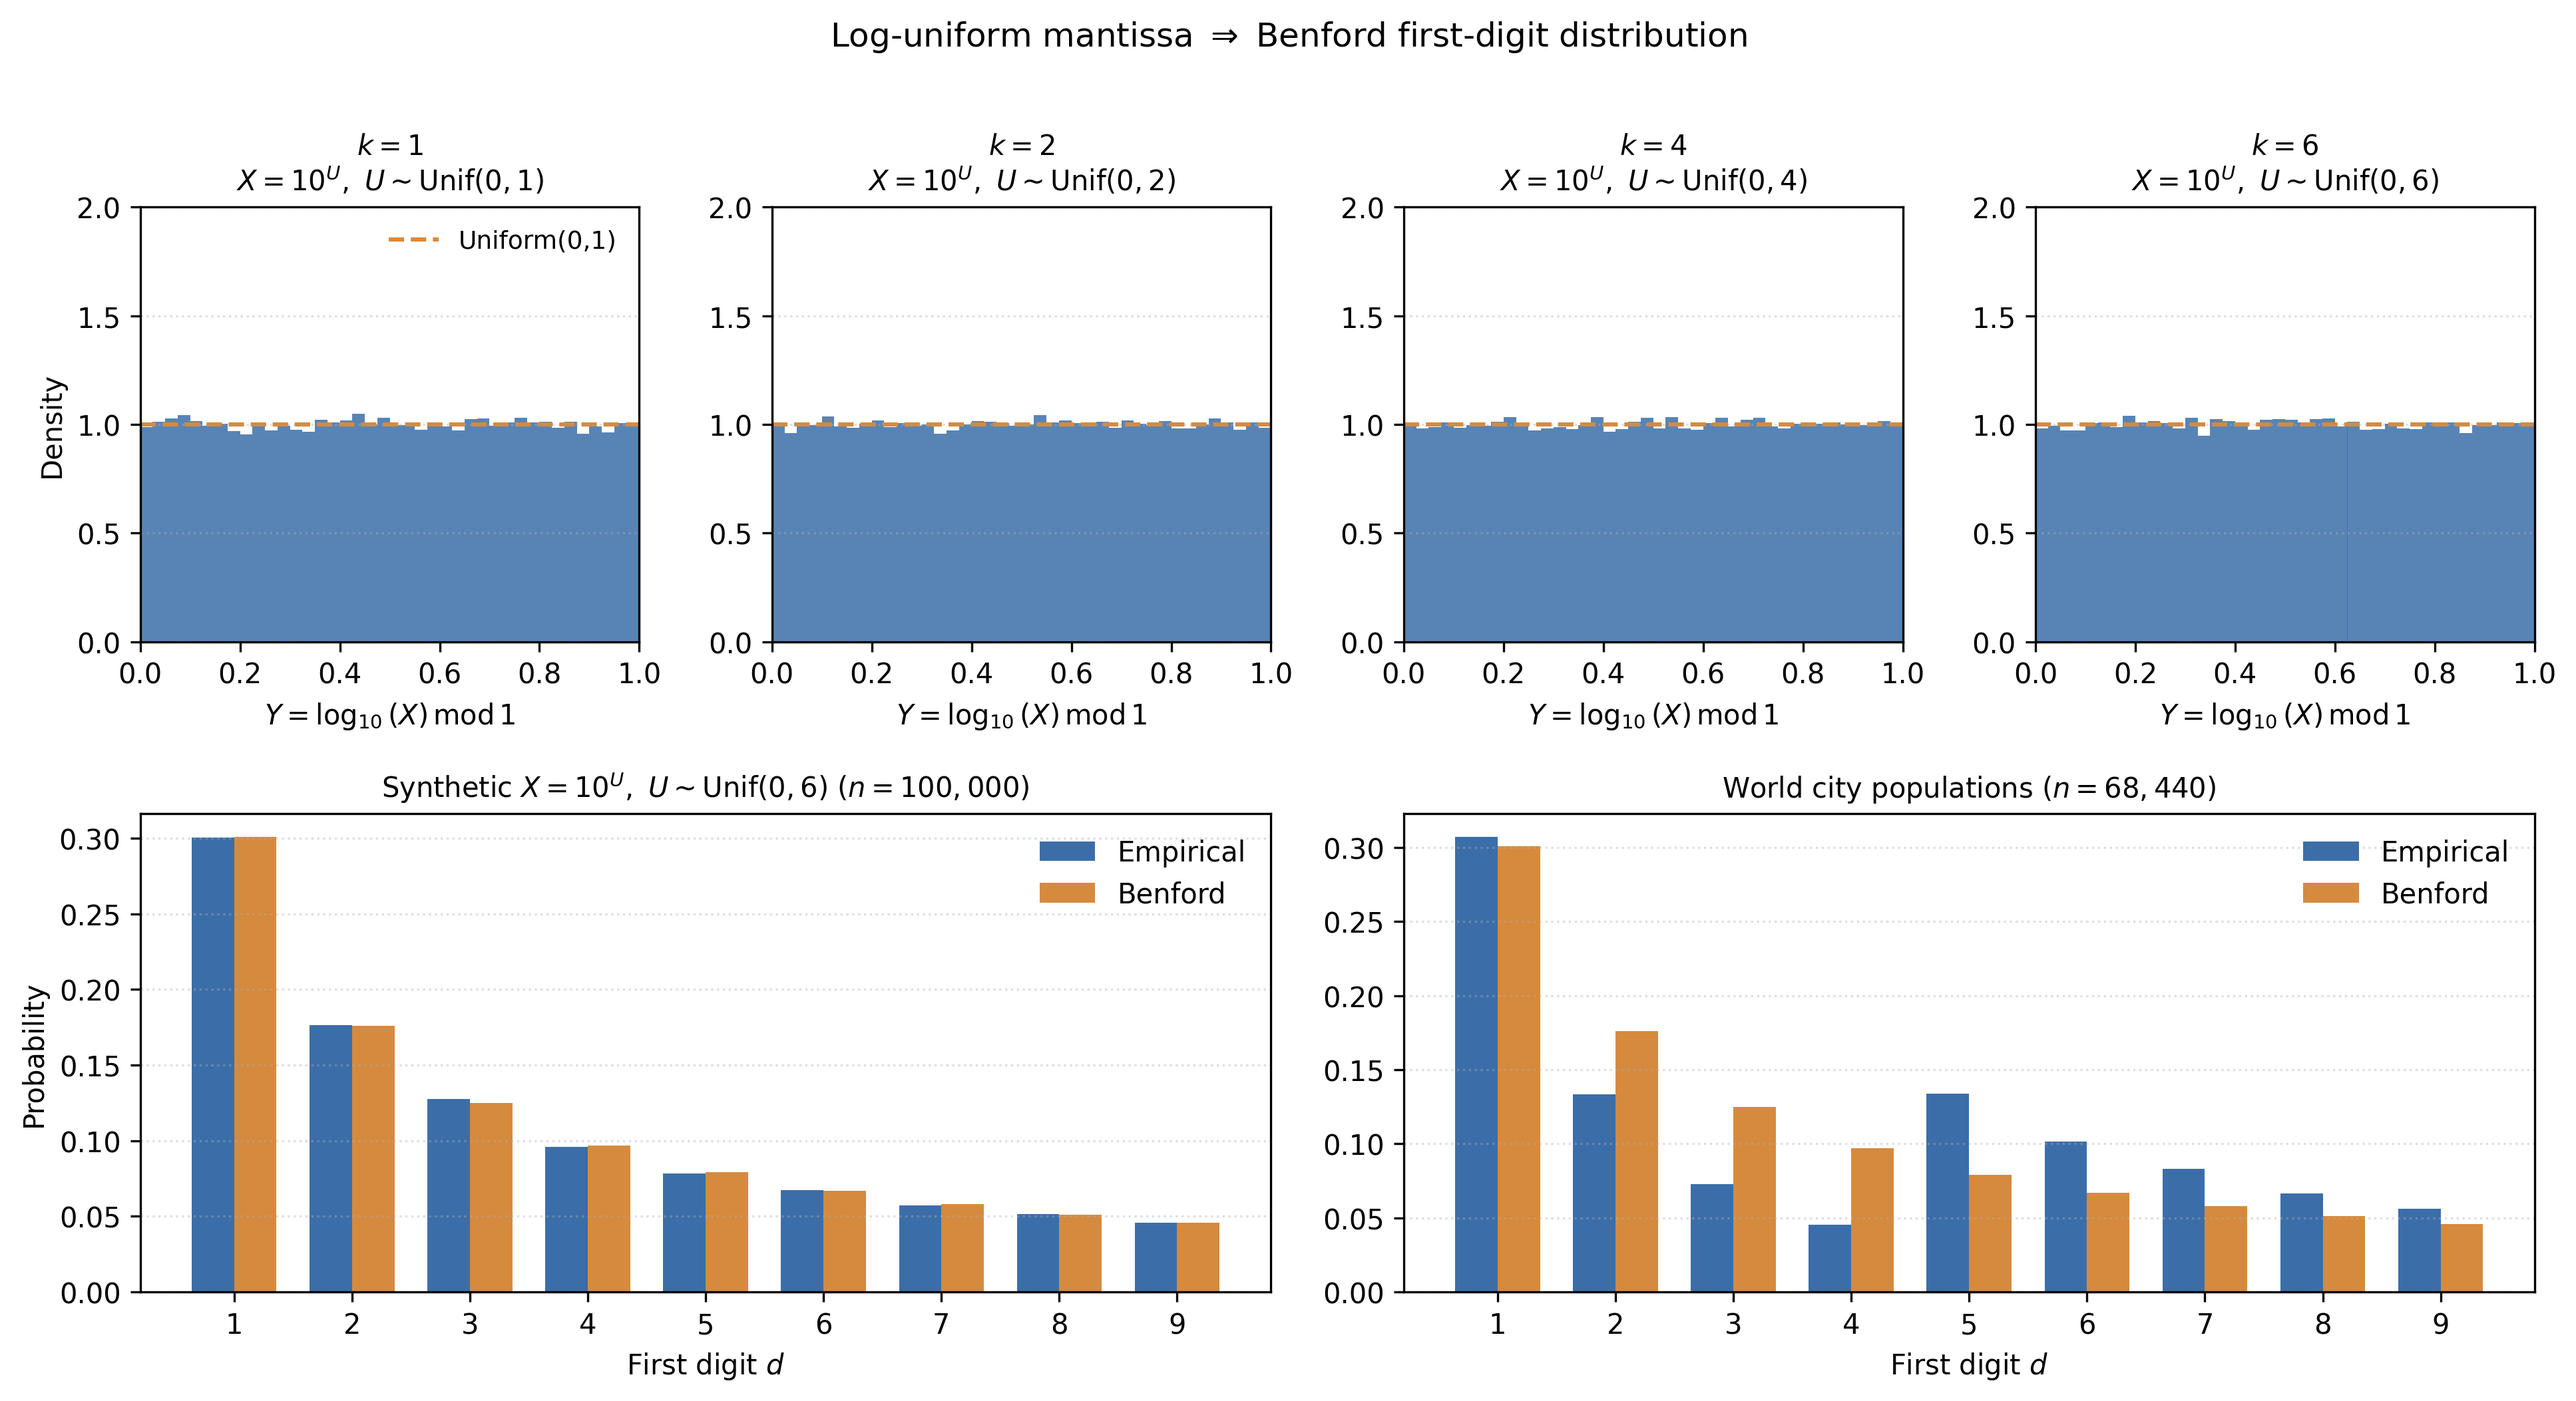
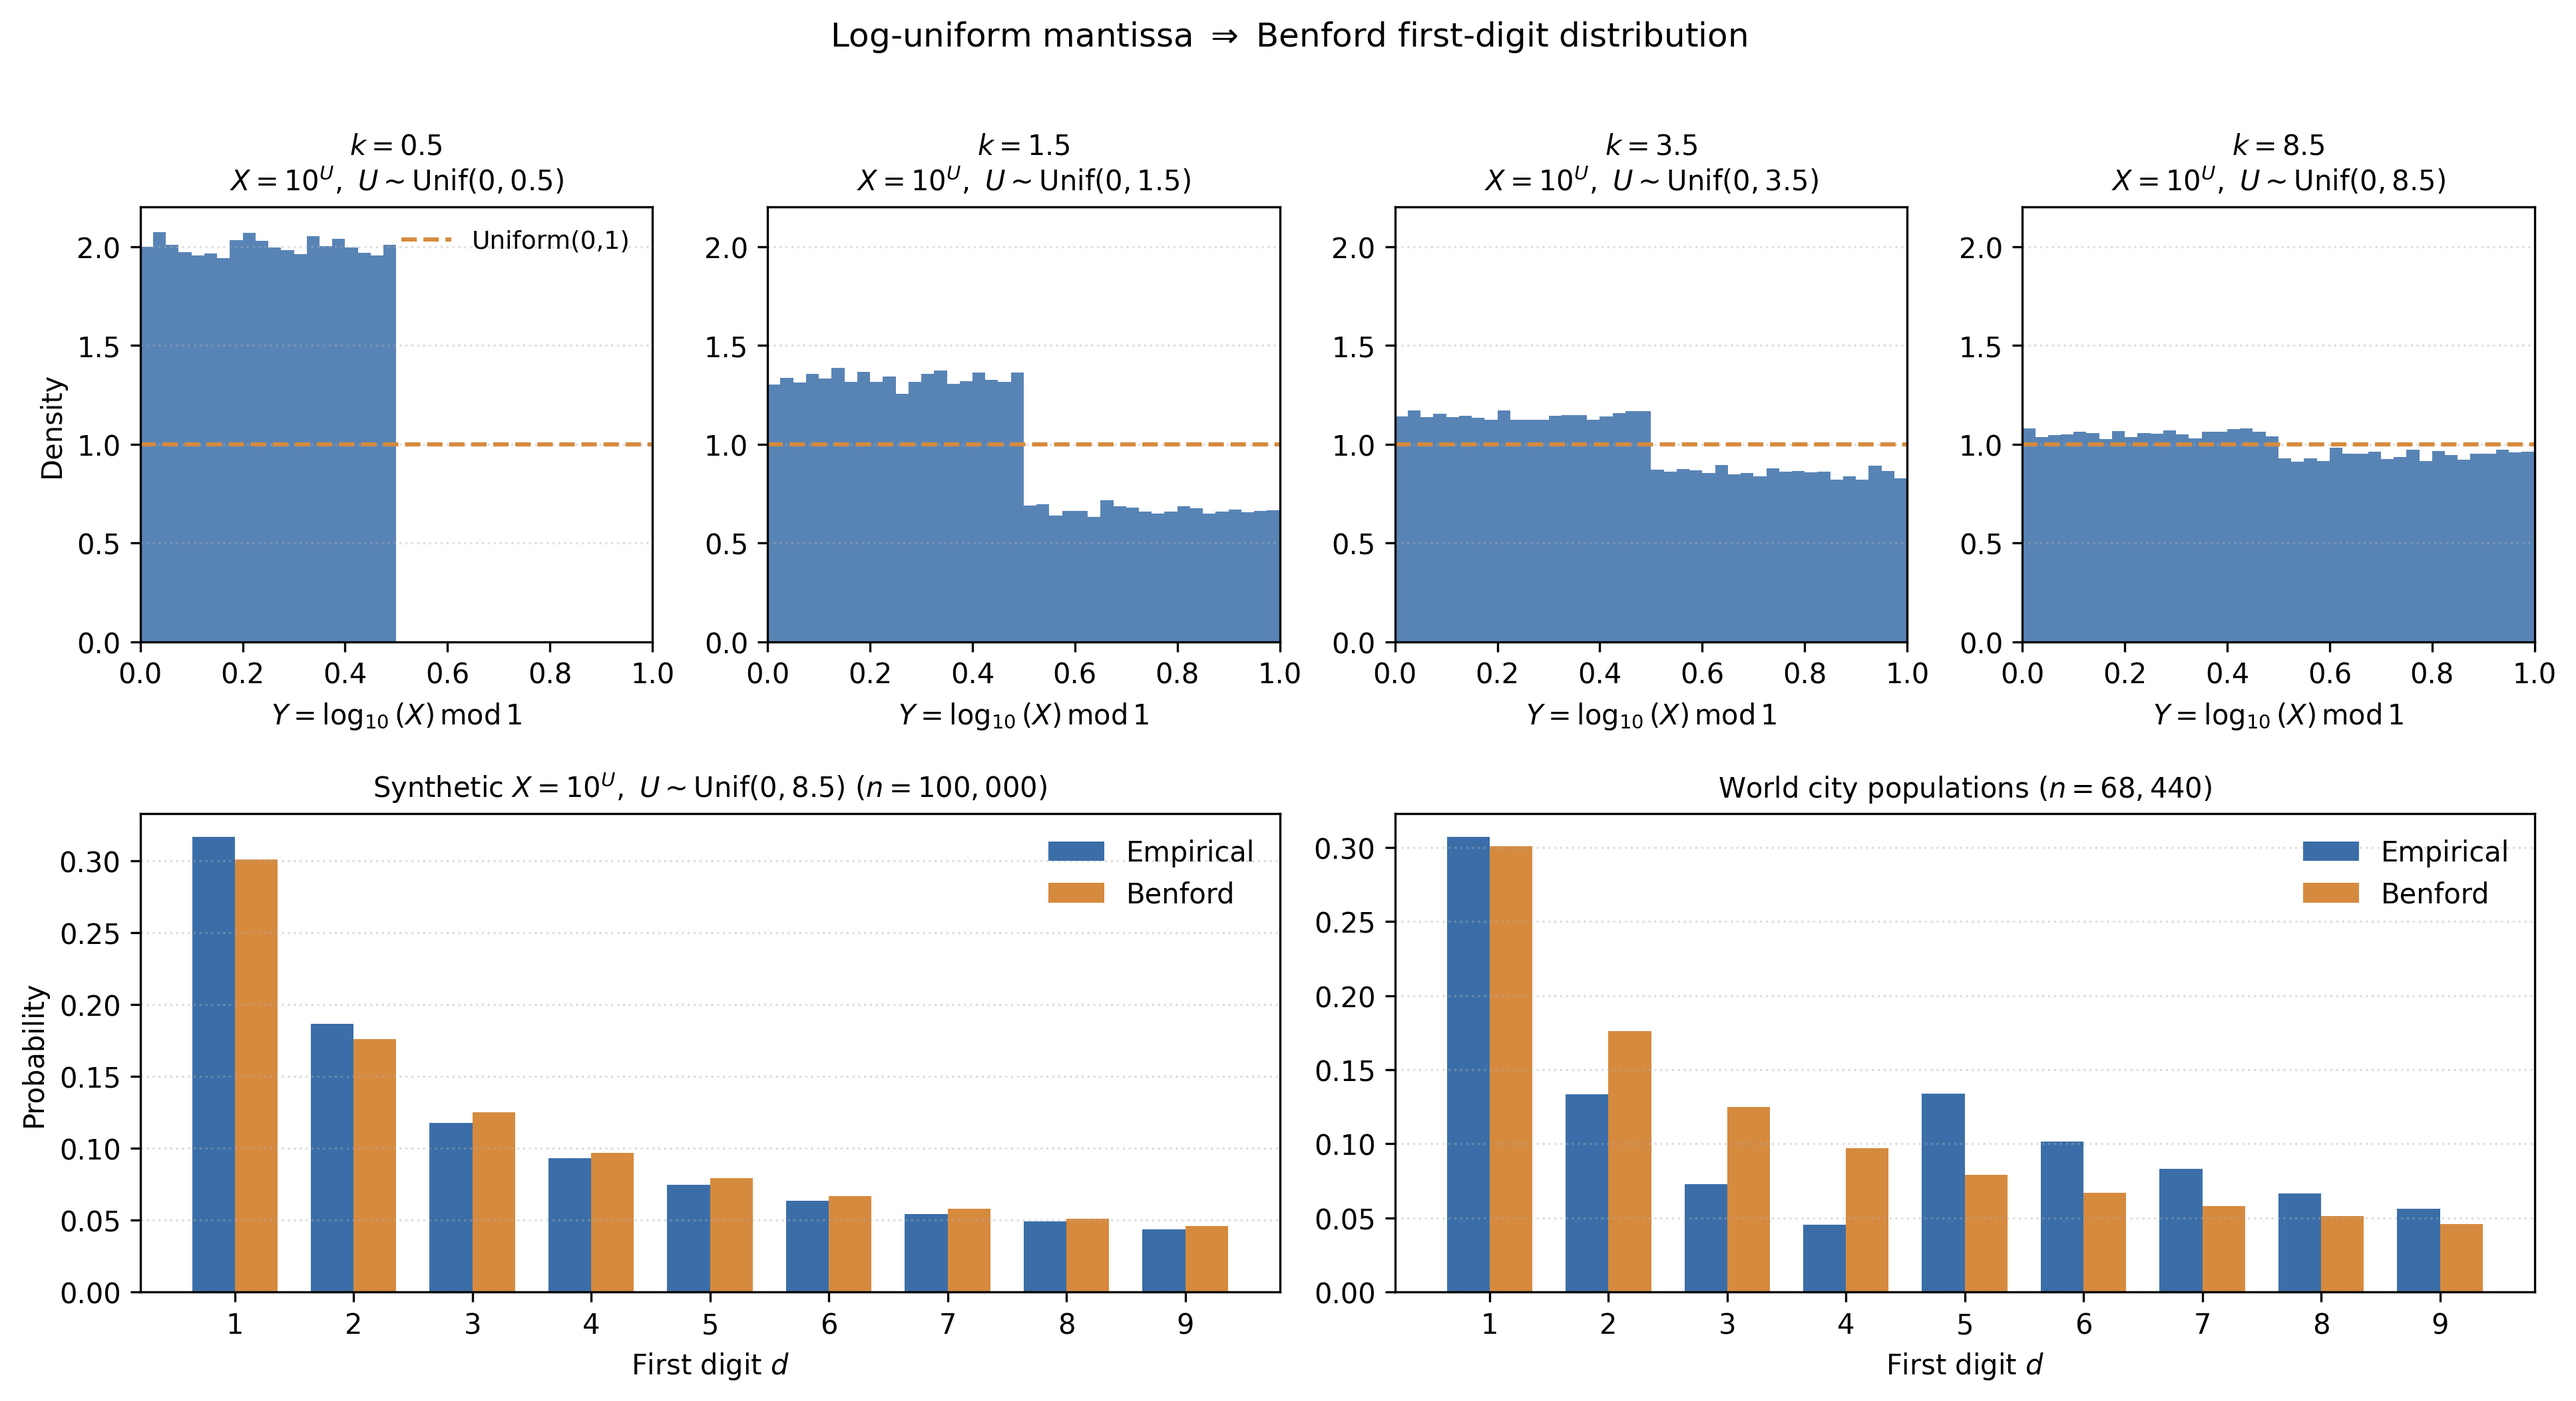
docs(article): show genuine log-mantissa convergence with non-integer k
The previous figure used k = 1, 2, 4, 6 — all integers — which makes
Y = log10(X) mod 1 *exactly* uniform by construction. The four top
panels were therefore visually identical and the prose claiming
"convergence as k grows" oversold what the figure delivered.

Switch to k = 0.5, 1.5, 3.5, 8.5 (deliberately non-integer):
- k = 0.5: Y has no mass on [0.5, 1) at all
- k = 1.5: clear step at Y = 0.5 (density 4/3 vs 2/3)
- k = 3.5: gentler step (density ~1.14 vs ~0.86)
- k = 8.5: histogram visually flat — convergence nearly complete

Deviation from uniform decays as 1/k, now demonstrably so.

Notebook 02 updated:
- K_VALUES rewritten, with K_LARGEST sentinel so the bottom-left
  synthetic-Benford panel automatically tracks the largest k
- §1 markdown explains the integer-vs-non-integer distinction
- §3 reading-the-figure markdown walks through the four panels

Article §3 prose (EN + PT-BR) rewritten to describe what the figure
actually shows, with concrete densities at each k.

Figure log_uniform_intuition.png regenerated.

diff --git a/article/benford-law-til-pt-BR.md b/article/benford-law-til-pt-BR.md
@@ -84,9 +84,9 @@ $$
 
 Essa é toda a derivação. O que parece um truque é estrutural: ao trocar a coordenada multiplicativa $X$ pela coordenada aditiva $Y$, transformamos a pergunta "qual é o primeiro dígito?" numa pergunta sobre comprimentos no círculo $[0, 1)$, e probabilidade uniforme nesse círculo se traduz diretamente na curva logarítmica.
 
-A figura abaixo torna o argumento tangível em dois movimentos. Na linha de cima, o histograma de $Y$ para amostras sintéticas $X = 10^U$ com $U \sim \mathrm{Uniforme}(0, k)$ se aproxima da densidade uniforme em $[0, 1)$ à medida que $k$ cresce — por construção, mas o achatamento é visível. Na linha de baixo, as frequências de primeiro dígito da amostra sintética com $k = 6$ (esquerda) e das populações de cidades do mundo (direita) assentam sobre a PMF de Benford: a premissa implica a curva, e dados reais multiescalares satisfazem a premissa.
+A figura abaixo torna o argumento tangível em dois movimentos. Na linha de cima, o histograma da log-mantissa $Y$ para amostras sintéticas $X = 10^U$ com $U \sim \mathrm{Uniforme}(0, k)$ é mostrado para $k = 0{,}5,\, 1{,}5,\, 3{,}5,\, 8{,}5$ — valores deliberadamente não-inteiros, para que a convergência seja visível. Em $k = 0{,}5$, $Y$ nem cobre $[0, 1)$ (toda a massa está em $[0; 0{,}5)$); em $k = 1{,}5$, há um degrau claro em $Y = 0{,}5$ (densidade $\approx 1{,}33$ na primeira metade contra $\approx 0{,}67$ na segunda); em $k = 3{,}5$ o degrau é mais brando; em $k = 8{,}5$ o histograma é visualmente plano. A diferença em relação à uniforme decai como $1/k$. Na linha de baixo, as frequências de primeiro dígito da amostra sintética com $k = 8{,}5$ (esquerda) e das populações de cidades do mundo (direita) assentam sobre a PMF de Benford: a premissa implica a curva, e dados reais multiescalares satisfazem a premissa.
 
-![Linha de cima: a log-mantissa Y tende à densidade uniforme conforme X cobre mais décadas. Linha de baixo: o primeiro dígito segue Benford, em dados sintéticos à esquerda e reais à direita.](../figures/log_uniform_intuition.png)
+![Linha de cima: a log-mantissa Y converge à densidade uniforme conforme X cobre mais décadas (k = 0,5; 1,5; 3,5; 8,5). Linha de baixo: o primeiro dígito segue Benford, em dados sintéticos à esquerda e reais à direita.](../figures/log_uniform_intuition.png)
 
 A questão substantiva é *por que* a premissa deveria valer. Três argumentos:
 

diff --git a/article/benford-law-til.md b/article/benford-law-til.md
@@ -78,9 +78,9 @@ $$
 
 That is the entire derivation. What looks like a sleight of hand is structural: by trading the multiplicative coordinate $X$ for the additive coordinate $Y$, we have turned the question "what is the first digit?" into a question about lengths on the circle $[0, 1)$, and uniform probability on that circle translates directly into the logarithmic curve.
 
-The figure below makes the argument tangible in two movements. In the top row, the histogram of $Y$ for synthetic samples $X = 10^U$ with $U \sim \mathrm{Uniform}(0, k)$ flattens visibly toward the uniform density on $[0, 1)$ as $k$ grows — by construction, but the convergence is striking. In the bottom row, the first-digit frequencies of the synthetic $k = 6$ sample (left) and of world city populations (right) sit on top of the Benford PMF: the premise implies the curve, and real multi-scale data satisfies the premise.
+The figure below makes the argument tangible in two movements. In the top row, the histogram of the log-mantissa $Y$ for synthetic samples $X = 10^U$ with $U \sim \mathrm{Uniform}(0, k)$ is shown for $k = 0.5,\, 1.5,\, 3.5,\, 8.5$ — deliberately non-integer values, so that the convergence is visible. At $k = 0.5$, $Y$ does not even cover $[0, 1)$ (all mass sits on $[0, 0.5)$); at $k = 1.5$, a clear step at $Y = 0.5$ remains (density $\approx 1.33$ on the first half against $\approx 0.67$ on the second); at $k = 3.5$ the step is gentler; at $k = 8.5$ the histogram is visually flat. The deviation from uniform decays as $1/k$. In the bottom row, the first-digit frequencies of the synthetic $k = 8.5$ sample (left) and of world city populations (right) sit on top of the Benford PMF: the premise implies the curve, and real multi-scale data satisfies the premise.
 
-![Top row: the log-mantissa Y tends to the uniform density as X covers more decades. Bottom row: the first digit follows Benford, on synthetic data on the left and real data on the right.](../figures/log_uniform_intuition.png)
+![Top row: the log-mantissa Y converges to the uniform density as X covers more decades (k = 0.5, 1.5, 3.5, 8.5). Bottom row: the first digit follows Benford, on synthetic data on the left and real data on the right.](../figures/log_uniform_intuition.png)
 
 The substantive question is *why* the premise should hold. Three arguments:
 
